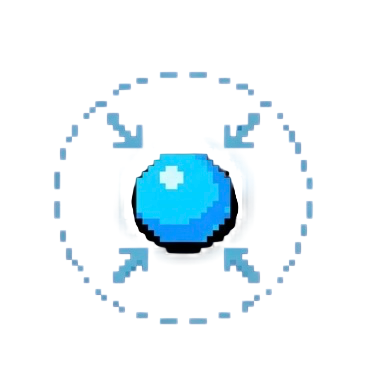
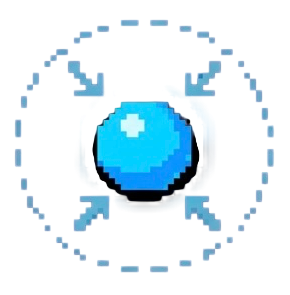
산소탱크 이미지 o2바로 이동, 새로운 산소item 이미지 추가

diff --git a/BlockGameStyle.css b/BlockGameStyle.css
@@ -182,7 +182,7 @@ body{
 }
 
 .score-box{
-    padding:8px 14px;
+    padding:10px 14px;
     border:1px solid rgba(255,140,58,0.85);
     background:rgba(0,0,0,0.45);
     letter-spacing:2px;
@@ -193,14 +193,17 @@ body{
     display:flex;
     align-items:center;
     gap:10px;
-    padding:8px 14px;
+    padding:4px 14px;
     border:1px solid rgba(126,231,255,0.8);
     background:rgba(0,0,0,0.45);
 }
 
 .o2-label{
-    color:#7ee7ff;
-    font-weight:700;
+    width:45px;
+    height:34px;
+    object-fit:contain;
+    flex-shrink:0;
+    display:block;
 }
 
 .o2-bar-outer{

diff --git a/BlockGameJs.js b/BlockGameJs.js
@@ -23,8 +23,8 @@ window.addEventListener("DOMContentLoaded", () => {
 	const metalBrickImg = new Image();
 	metalBrickImg.src = "images/metal-brick.png";
 
-	const oxygenTankImg = new Image();
-	oxygenTankImg.src = "images/oxygen-tank.png";
+	const oxygenItemImg = new Image();
+	oxygenItemImg.src = "images/oxygen-item.png";
 
     const smallballitemImg = new Image();
     smallballitemImg.src = "images/item_smallball.png";
@@ -162,7 +162,7 @@ window.addEventListener("DOMContentLoaded", () => {
     ui.innerHTML = `
         <div class="score-box">SCORE <span id="scoreText">0</span></div>
         <div class="o2-panel">
-            <span class="o2-label">O2</span>
+            <img class="o2-label" src="images/oxygen-tank.png" alt="O2">
             <div class="o2-bar-outer">
                 <div class="o2-bar-inner" id="o2Bar"></div>
             </div>
@@ -414,7 +414,7 @@ window.addEventListener("DOMContentLoaded", () => {
         const  size = item.radius * 3;
         let img;
         // 산소통 이미지를 아이템 위치에 그림
-        if (item.type === "o2")       img = oxygenTankImg;
+        if (item.type === "o2")       img = oxygenItemImg;
         if (item.type === "widebar")  img = widebaritemImg;
         if (item.type === "smallball") img = smallballitemImg;
         if (item.type === "x3")       img = x3itemImg;
@@ -443,7 +443,7 @@ window.addEventListener("DOMContentLoaded", () => {
         // 35% 확률로 아이템 생성
         if (Math.random() > 0.35) return;
 
-        // 버프 아이템 목록 (x3 미구현으로 제외)
+        // 버프 아이템 목록 
         const buffTypes = ["o2", "widebar","x3"];
 
         // 디버프 아이템 목록